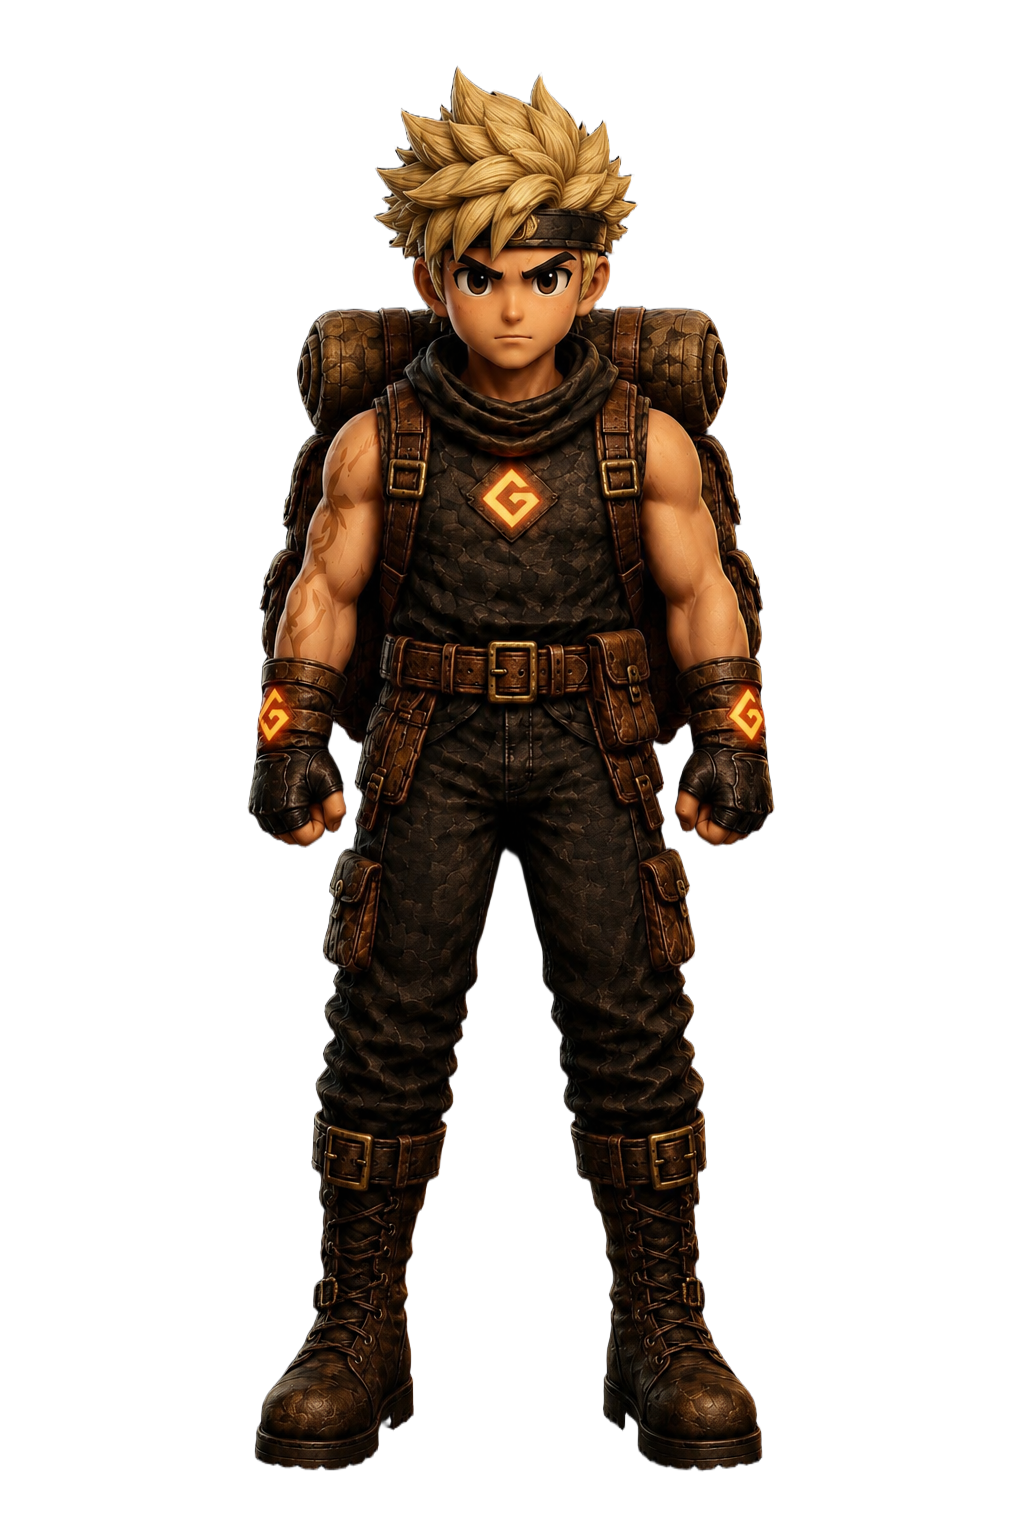
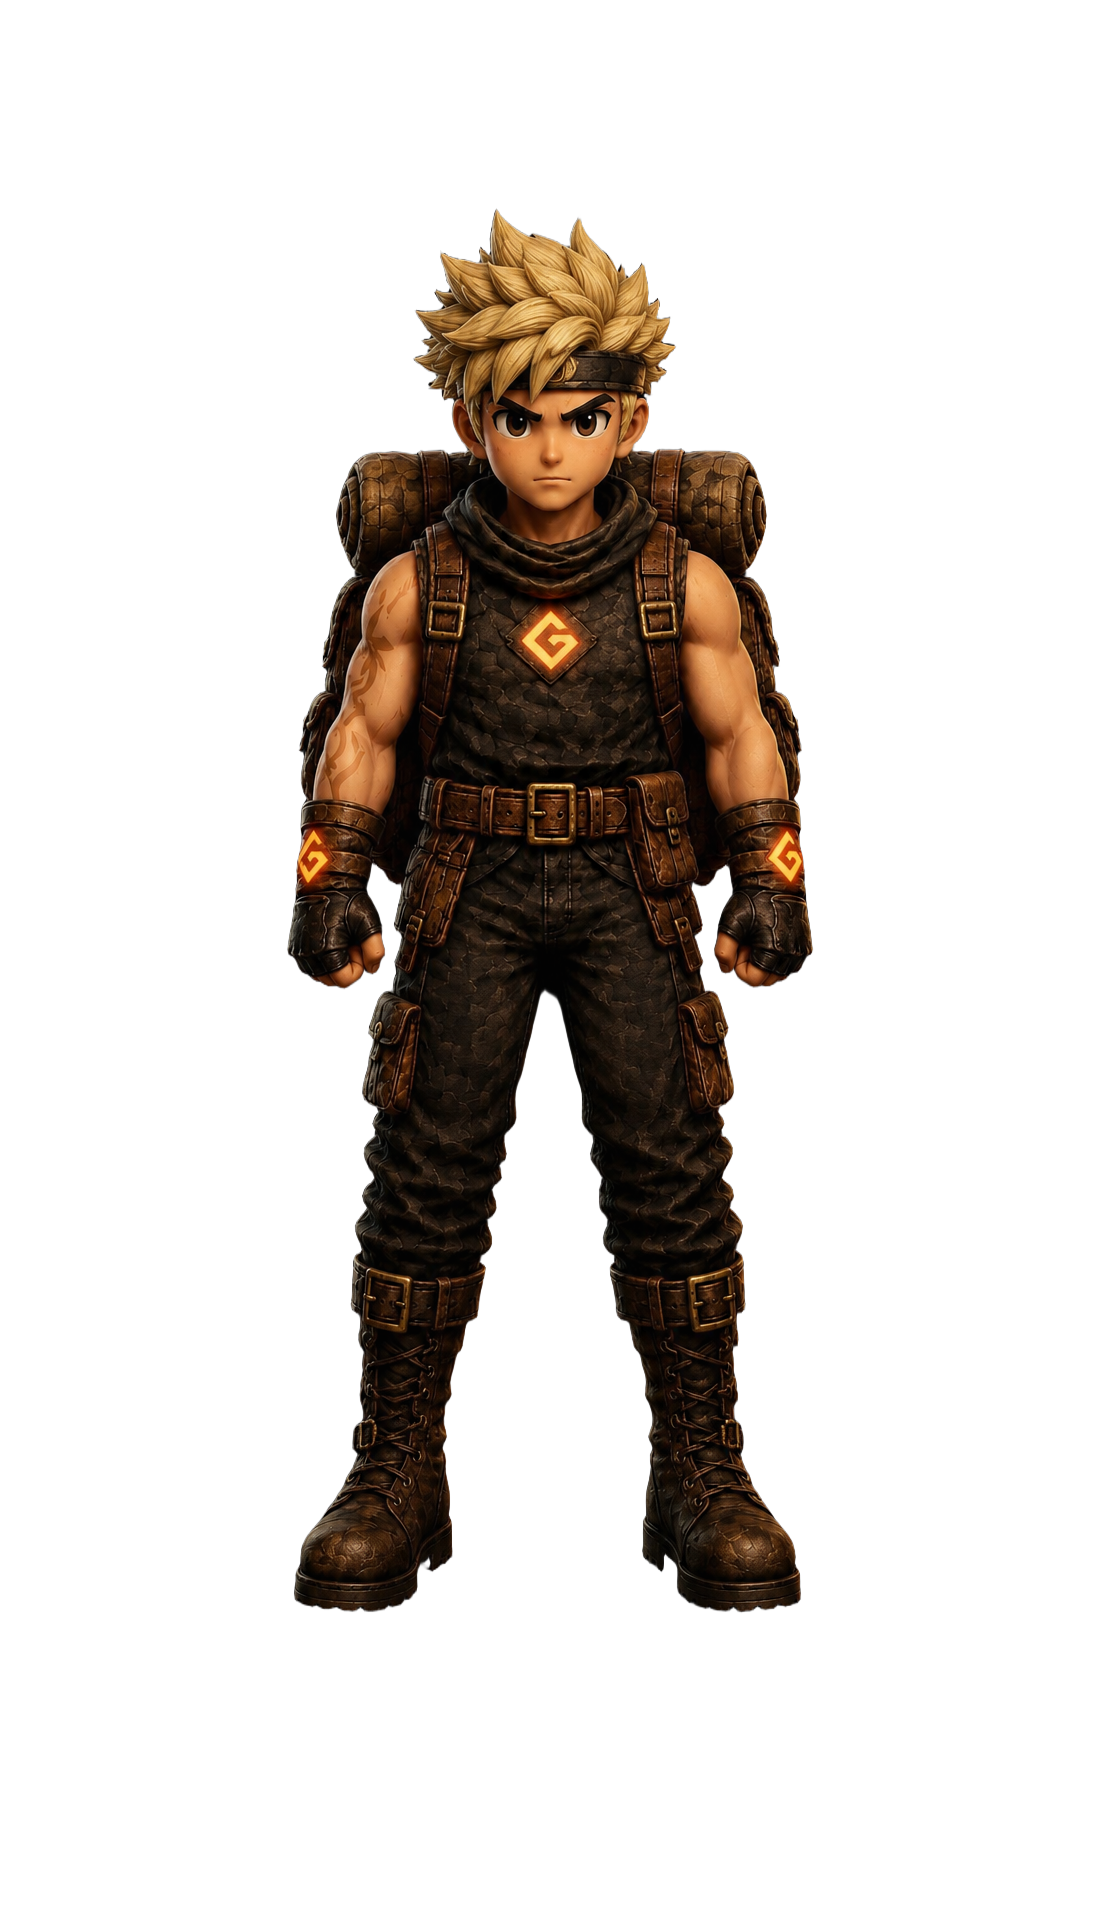
Adjust character portraits to prevent mispositioning in selection screens
Correct character portrait framing by re-padding image assets and update documentation regarding runtime file synchronization.

Replit-Commit-Author: Agent
Replit-Commit-Session-Id: ff10234c-ab41-4c99-af1f-00715855b802
Replit-Commit-Checkpoint-Type: full_checkpoint
Replit-Commit-Event-Id: 8ffac3bd-32eb-4308-a958-fcb0b655fa0a
Replit-Commit-Screenshot-Url: https://storage.googleapis.com/screenshot-production-us-central1/c425fe4a-314f-48c8-94ae-3cadea811782/ff10234c-ab41-4c99-af1f-00715855b802/lhLMUHU
Replit-Helium-Checkpoint-Created: true

Changed region(s): [[0.2188, 0.0312, 0.7812, 0.9688]]

diff --git a/artifacts/primeria/public/sw.js b/artifacts/primeria/public/sw.js
@@ -1,5 +1,5 @@
-const CACHE_VERSION = "primeria-v8";
-const ASSET_CACHE   = "primeria-assets-v8";
+const CACHE_VERSION = "primeria-v9";
+const ASSET_CACHE   = "primeria-assets-v9";
 
 const PRECACHE = [
   "./",

diff --git a/replit.md b/replit.md
@@ -84,6 +84,8 @@ Primeria is a browser-native monster-tamer RPG where you explore ruins, bond wit
 - Audio files live in `public/audio/` in both artifacts (served as `/__mockup/audio/` in mockup-sandbox, `./audio/` in primeria).
 - Browser autoplay: music starts on first user gesture (title screen click). Calls before that fail silently and clear bgSrc so the next call retries.
 - **Sync note**: audioManager.ts is copied verbatim (no path replacement needed). WalkDemo/GameLauncher sed command: `'s|/__mockup/images/|./images/|g; s|/__mockup/audio/|./audio/|g'`.
+- **⚠ primeria runtime path**: `artifacts/primeria/src/main.tsx → App.tsx → ./game/GameLauncher` — the LIVE primeria runtime is `artifacts/primeria/src/game/*`, NOT `artifacts/primeria/src/*`. The root-level `src/GameLauncher.tsx` + `src/WalkDemo.tsx` are ORPHANED (they only import each other; nothing in the runtime imports them). Always sync canonical code to `artifacts/primeria/src/game/<file>`. Note: the primeria runtime char_reveal has diverged from the canonical mockup version (it uses the small `activeChar.sprite` pixel sprite, not `hdImg`/`hero-art.png`), so a blind sed-sync would overwrite that divergence — review before resyncing GameLauncher/WalkDemo.
+- **Shared assets**: `public/images/` and `public/audio/` are per-artifact copies; image/audio fixes must be written to BOTH `artifacts/mockup-sandbox/public/` and `artifacts/primeria/public/`, then bump `artifacts/primeria/public/sw.js` CACHE_VERSION + ASSET_CACHE so the service worker refetches.
 
 ## Gotchas
 

diff --git a/.agents/memory/portrait-framing.md b/.agents/memory/portrait-framing.md
@@ -1,0 +1,25 @@
+---
+name: Character portrait framing normalization
+description: Why character portraits must share the same internal figure proportions, not just CSS positioning
+---
+
+# Character portrait framing must be normalized at the asset level
+
+Character HD portraits (`hero-art.png`=Rowan, `kinju.png`=Kinju, etc.) are rendered
+in the char_reveal / intro / thumbnail slots with `objectFit: contain` +
+`objectPosition: bottom center`. With a portrait image in a shorter container,
+`contain` scales the image to fill the container HEIGHT — so vertical
+`objectPosition` has NO effect and CSS cannot shift the figure up/down.
+
+**Why:** The only thing that controls where a character's feet/head sit in the
+frame is the transparent margin baked into the PNG. If one portrait's figure
+fills 91% of its canvas (tiny margins) and another fills 73% (big margins), they
+render at different heights and one looks "too south" / floating.
+
+**How to apply:** When a portrait looks mis-positioned vs the others, do NOT patch
+CSS. Measure the figure bbox with PIL (`Image.getbbox()`), then re-pad the
+offending PNG so its top-margin%, figure-height%, and bottom-margin% match the
+reference portrait (Kinju is the canonical reference: ~10.8% top / 73.5% figure /
+15.7% bottom, figure ~48% of width, horizontally centered). Save to BOTH
+`artifacts/mockup-sandbox/public/images/` and `artifacts/primeria/public/images/`,
+then bump the primeria `public/sw.js` cache version so clients refetch.

diff --git a/.agents/memory/MEMORY.md b/.agents/memory/MEMORY.md
@@ -1,0 +1,1 @@
+- [Character portrait framing](portrait-framing.md) — portraits must share internal figure proportions; fix mis-positioned ones by re-padding the PNG, not CSS (contain ignores vertical objectPosition).
